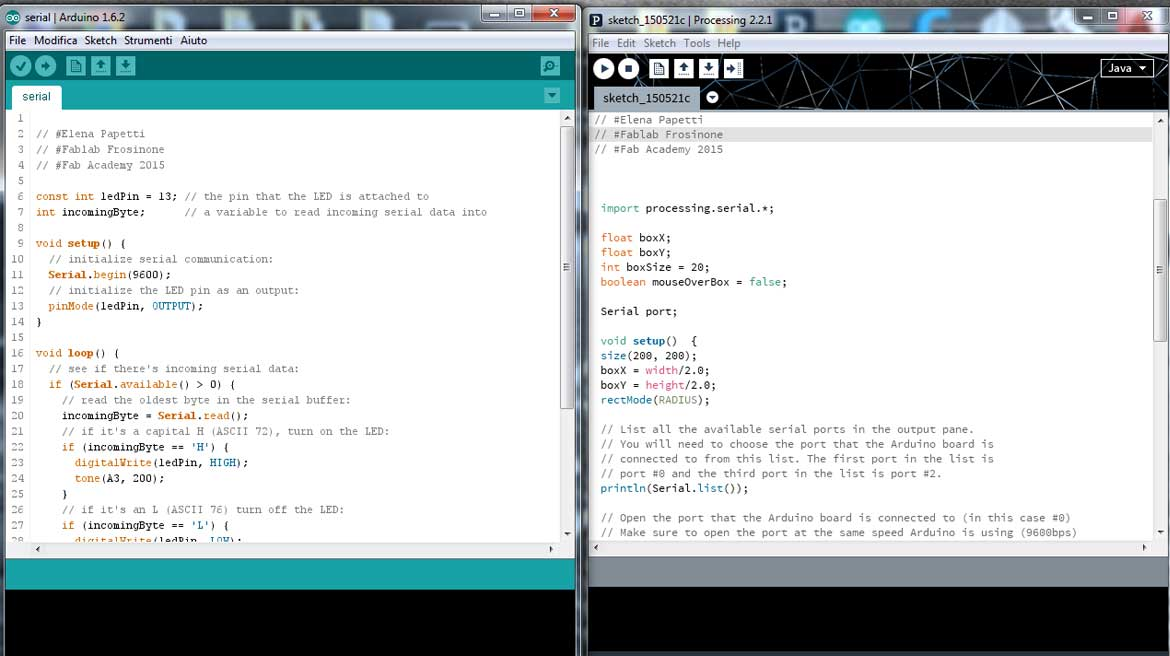
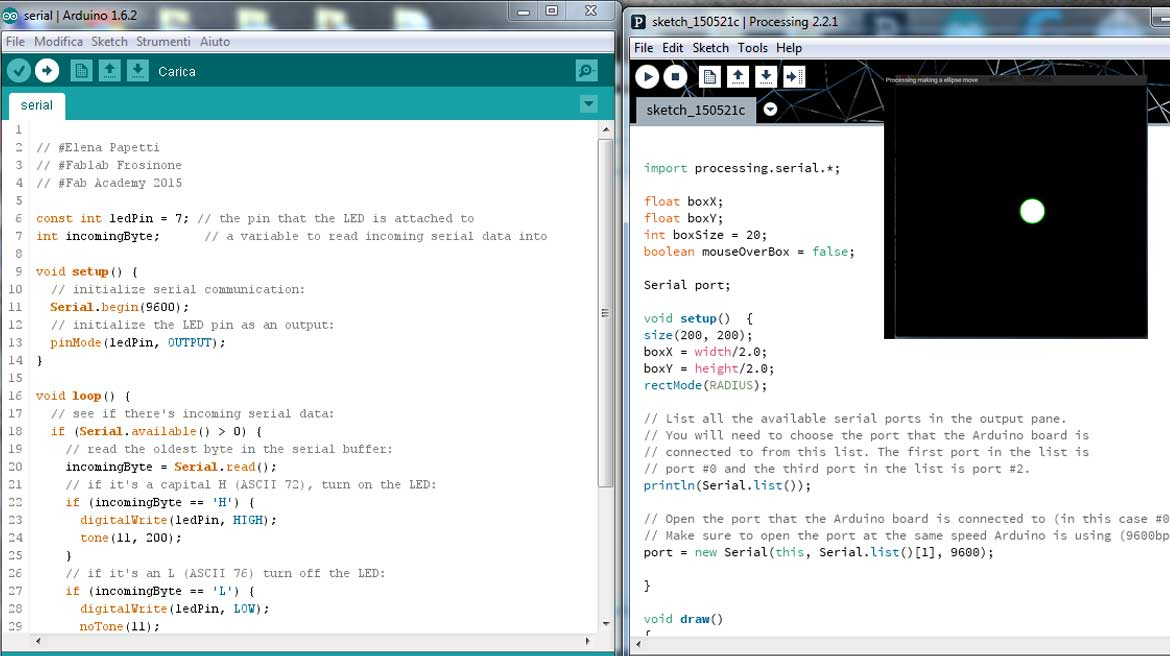
interface

diff --git a/papetti.elena/Week14.html b/papetti.elena/Week14.html
@@ -68,17 +68,25 @@
             <p class="lead">DOWNLOAD FILES:<br>
           	<a href="https://github.com/elenapapetti/FabAcademy2015files/tree/master/Week14/Interface/ide%20input/serial">'Input'</a>
           	<br>
-          	<a href="https://github.com/elenapapetti/FabAcademy2015files/tree/master/Week14/Interface/processing%20output/sketch_150521c">'Output'</a>
+         <a href="https://github.com/elenapapetti/FabAcademy2015files/tree/master/Week14/Interface/processing%20output/sketch_150521c">'Output'</a>
           	</p>
-        
-                <span class="text-muted">  
-            </h2>
- <p class="lead">Sorry, The page is undercostruction!</p>
+        <p class="lead">For this week assignment I chose to use and learn <a href="https://www.processing.org/" target="_blank">Processing </a> an open source programming language and integrated development environment (IDE) built for the electronic arts, new media art, and visual design communities with the purpose of teaching the fundamentals of computer programming in a visual context, and to serve as the foundation for electronic sketchbooks. The language builds on the Java language, but uses a simplified syntax and graphics programming model.<br>
+        First thing I have to do was the free <a href="https://www.processing.org/" target="_blank">download </a> of the software. Then to start with it, I've done several resarches on the official website and internet because for me it's a new software to use. The approach with Processing wasn't difficult because it looks like Arduino IDE and the documentation is really wide. <br>
+        In the page <a href="http://www.learningprocessing.com/examples/" target="_blank">Learning Processing </a> I found a series of simple exercises and explanations to understand concept like serial port reading, variables etc..  </p>
+        <br>
+        <p class="lead">I decided to work more with sound taking inputs for my final project. This time, however, to improve the sound, instead of a buzzer, I put on my board a speaker of an old phone. <br></br>
+       For my Interface I wanted to create a screen with a Ball that runs at half the screen from left to right when starts the sound.
+       <br>To do it I repeat the tutorial in the following video. </p>
 
- 	<img class="featurette-img-responsive pull-up" width="100%" src="img/WEEK14/1.jpg">
-<iframe src="https://player.vimeo.com/video/131963447" width="500" height="500" frameborder="0" webkitallowfullscreen mozallowfullscreen allowfullscreen></iframe> <p><a href="https://vimeo.com/131963447">Output</a> from <a href="https://vimeo.com/user37965595">Elena Papetti</a> on <a href="https://vimeo.com">Vimeo</a>.</p>
+     <iframe src="https://player.vimeo.com/video/131963447" width="50%" height="281" ></iframe>
+     <iframe src="https://www.youtube.com/embed/jLuMjfxgBpc" width="48%" height="281" ></iframe>
+         <br></br>    
+ 
+ <p class="lead"> Once whatched it I customized my interface changing in the sketch background color, size, position and velocity of the ball. Done that, I worked on the second step: the communication between Arduino IDE and Processing.<br> First I wrote the sketch with the IDE using a tone library. After I open my Processing sketch and I set the Serial Port "port = new Serial(this, Serial.list()[1], 9600);" to import from the IDE. So I runned the Sketch on arduino paying attention to closing the serial monitor on it (otherwise processing recognizes a busy port). Then I runned the sketch on Processing and it's possible hear the melody while the ball flowing!   </p>
+ <br></br>
 
-	 <footer>
+<img class="featurette-img-responsive pull-up" width="100%" src="img/WEEK14/1.jpg">
+ <footer>
 		 <div class="container">
 			 <div class="row">
 				 <div class="col-md-4">
